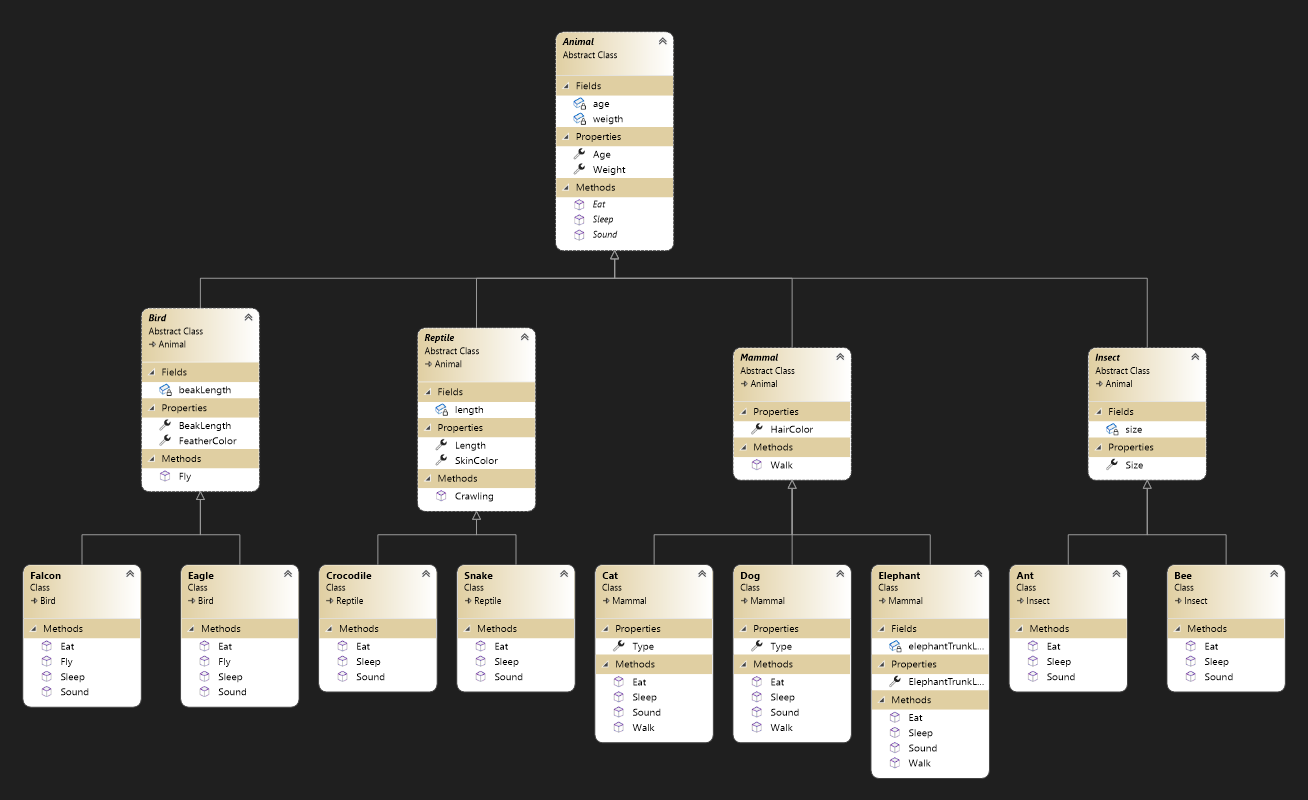
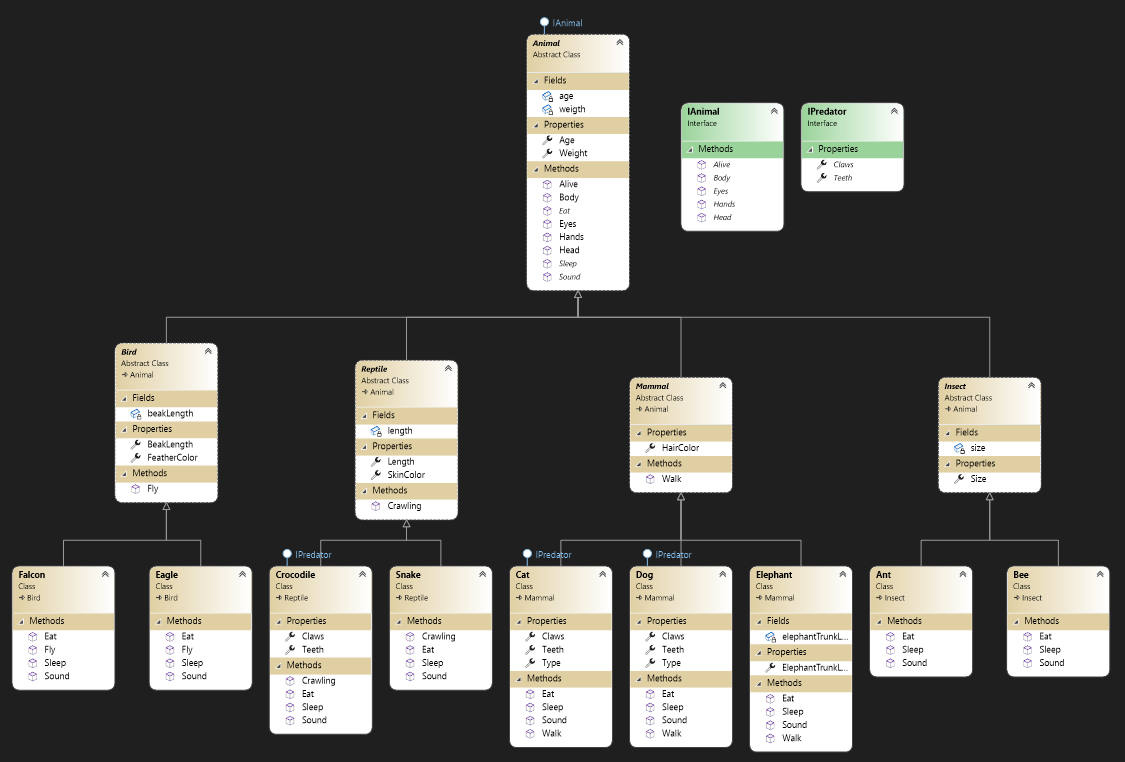
Added Interfaces & Testing

diff --git a/Lab0607-Zoo/Classes/Animal.cs b/Lab0607-Zoo/Classes/Animal.cs
@@ -6,7 +6,7 @@ using System.Threading.Tasks;
 
 namespace Lab0607_Zoo
 {
-    public abstract class Animal
+    public abstract class Animal : IAnimal
     {
         private int age;
 
@@ -52,7 +52,35 @@ namespace Lab0607_Zoo
             }
         }
 
+        public void Alive()
+        {
+            Console.WriteLine("The Animal is Alive");
+        }
+
+        public void Body()
+        {
+            Console.WriteLine("The Animal has a body");
+        }
+
         public abstract void Eat();
+
+        public void Eyes()
+        {
+            Console.WriteLine("The Animal has Eyes");
+        }
+
+        public void Hands()
+        {
+
+            Console.WriteLine("The Animal has Hands");
+        }
+
+        public void Head()
+        {
+
+            Console.WriteLine("The Animal has Head");
+        }
+
         public abstract void Sleep();
         public abstract void Sound();
     }

diff --git a/ZooTest/UnitTest1.cs b/ZooTest/UnitTest1.cs
@@ -1,0 +1,36 @@
+using System;
+using Xunit;
+using Lab0607_Zoo;
+
+namespace ZooTest
+{
+    public class UnitTest1
+    {
+        [Fact]
+        public void Test_Bird_Type()
+        {
+            Bird falcon = new Falcon();
+            Assert.Equal("Falcon is Flying...", falcon.Fly());
+
+        }
+
+        [Fact]
+        public void Test_Reptile_Type()
+        {
+            Reptile snake = new Snake();
+            Assert.Equal("Snake is Crawling...", snake.Crawling());
+
+        }
+
+        [Fact]
+        public void Test_Predator_Type()
+        {
+            Crocodile crocodile = new Crocodile();
+
+            crocodile.Claws = "Claws";
+
+            Assert.Equal("Claws", crocodile.Claws);
+
+        }
+    }
+}

diff --git a/Lab0607-Zoo/Classes/Crocodile.cs b/Lab0607-Zoo/Classes/Crocodile.cs
@@ -6,11 +6,14 @@ using System.Threading.Tasks;
 
 namespace Lab0607_Zoo
 {
-    internal class Crocodile : Reptile
+    public class Crocodile : Reptile, IPredator
     {
-        public override void Crawling()
+        public string Claws { get; set; }
+        public string Teeth { get; set; }
+
+        public override string Crawling()
         {
-            Console.WriteLine("Crocodile is Crawling...");
+            return "Crocodile is Crawling...";
         }
         public override void Eat()
         {

diff --git a/Lab0607-Zoo/Classes/Snake.cs b/Lab0607-Zoo/Classes/Snake.cs
@@ -6,11 +6,11 @@ using System.Threading.Tasks;
 
 namespace Lab0607_Zoo
 {
-    internal class Snake : Reptile
+    public class Snake : Reptile
     {
-        public override void Crawling()
+        public override string Crawling()
         {
-            Console.WriteLine("Snake is Crawling...");
+            return "Snake is Crawling...";
         }
         public override void Eat()
         {

diff --git a/Lab0607-Zoo/Classes/Falcon.cs b/Lab0607-Zoo/Classes/Falcon.cs
@@ -6,11 +6,11 @@ using System.Threading.Tasks;
 
 namespace Lab0607_Zoo
 {
-    internal class Falcon : Bird
+    public class Falcon : Bird
     {
-        public override void Fly()
+        public override string Fly()
         {
-            Console.WriteLine("Falcon is Flying...");
+            return "Falcon is Flying...";
         }
 
         public override void Eat()

diff --git a/Lab0607-Zoo/Classes/IAnimal.cs b/Lab0607-Zoo/Classes/IAnimal.cs
@@ -1,0 +1,18 @@
+using System;
+using System.Collections.Generic;
+using System.Linq;
+using System.Text;
+using System.Threading.Tasks;
+
+namespace Lab0607_Zoo
+{
+    public interface IAnimal
+    {
+        public void Alive();
+        public void Head();
+        public void Body();
+        public void Eyes();
+        public void Hands();
+
+    }
+}

diff --git a/Lab0607-Zoo/Classes/Dog.cs b/Lab0607-Zoo/Classes/Dog.cs
@@ -6,9 +6,12 @@ using System.Threading.Tasks;
 
 namespace Lab0607_Zoo
 {
-    public class Dog : Mammal
+    public class Dog : Mammal, IPredator
     {
         public string Type { get; set; }
+
+        public string Claws { get; set; }
+        public string Teeth { get; set; }
 
         public override void Eat()
         {

diff --git a/Lab0607-Zoo/Classes/Cat.cs b/Lab0607-Zoo/Classes/Cat.cs
@@ -6,9 +6,11 @@ using System.Threading.Tasks;
 
 namespace Lab0607_Zoo
 {
-    public class Cat : Mammal
+    public class Cat : Mammal, IPredator
     {
         public string Type { get; set; }
+        public string Claws { get; set; }
+        public string Teeth { get; set; }
 
         public override void Eat()
         {

diff --git a/Lab0607-Zoo/Classes/Eagle.cs b/Lab0607-Zoo/Classes/Eagle.cs
@@ -8,9 +8,9 @@ namespace Lab0607_Zoo
 {
     public class Eagle : Bird
     {
-        public override void Fly()
+        public override string Fly()
         {
-            Console.WriteLine("Eagle is Flying...");
+            return "Eagle is Flying...";
         }
 
         public override void Eat()

diff --git a/Lab0607-Zoo/Classes/IPredator.cs b/Lab0607-Zoo/Classes/IPredator.cs
@@ -1,0 +1,14 @@
+using System;
+using System.Collections.Generic;
+using System.Linq;
+using System.Text;
+using System.Threading.Tasks;
+
+namespace Lab0607_Zoo
+{
+    public interface IPredator
+    {
+        public string Claws { get; set; }
+        public string Teeth { get; set; }
+    }
+}

diff --git a/Lab0607-Zoo/Classes/Reptile.cs b/Lab0607-Zoo/Classes/Reptile.cs
@@ -31,9 +31,9 @@ namespace Lab0607_Zoo
             }
         }
 
-        public virtual void Crawling()
+        public virtual string Crawling()
         {
-            Console.WriteLine("Reptile is Crowling...");
+            return "Reptile is Crowling...";
         }
     }
 }

diff --git a/Lab0607-Zoo/Classes/Bird.cs b/Lab0607-Zoo/Classes/Bird.cs
@@ -31,9 +31,9 @@ namespace Lab0607_Zoo
             }
         }
         
-        public virtual void Fly()
+        public virtual string Fly()
         {
-            Console.WriteLine("Bird is Flying...");
+            return "Bird is Flying...";
         }
 
     }
